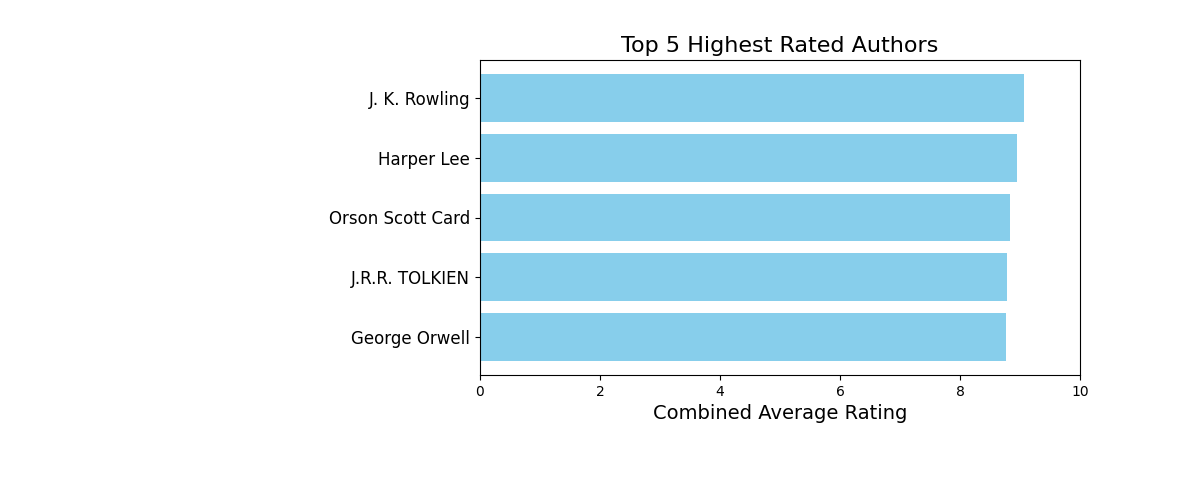
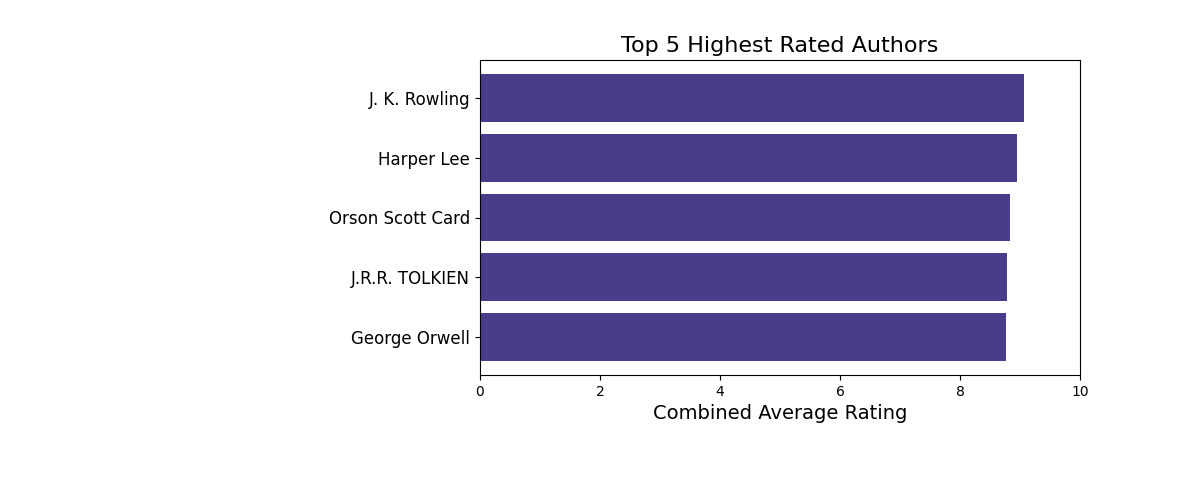
Initial

Changed region(s): [[0.4008, 0.15, 0.8633, 0.72]]

diff --git a/templates/index.html b/templates/index.html
@@ -85,8 +85,8 @@
     {% endif %}
 </div>
 <div style="margin-bottom: 100px;">
-    <img src="{{ top_ten_chart }}?v={{ timestamp }}" alt="Top Ten Chart" style="width: 75%; align-content: center">
-    <img src="{{ top_five_chart }}?v={{ timestamp }}" alt="Top Five Chart" style="width: 75%; align-content: center">
+    <img src="{{ top_ten_chart }}?v={{ timestamp }}" alt="Top Ten Chart" style="width: 90%; align-content: center">
+    <img src="{{ top_five_chart }}?v={{ timestamp }}" alt="Top Five Chart" style="width: 90%; align-content: center">
 </div>
 </body>
 </html>

diff --git a/app.py b/app.py
@@ -100,7 +100,7 @@ def plot_top_ten_books(books_with_ratings):
 
     plt.figure(figsize=(12, 5))
     plt.subplots_adjust(left=0.4, bottom=0.25)
-    plt.barh(top_ten_books['Book-Title'], top_ten_books['average_rating'], color='skyblue')
+    plt.barh(top_ten_books['Book-Title'], top_ten_books['average_rating'], color='darkslateblue')
     plt.xlabel('Average Rating', fontsize=14)
     plt.yticks(fontsize=12)  # Enable wrapping of labels to show the full title
     plt.title('Top 10 Highest Rated Books', fontsize=16)
@@ -120,7 +120,7 @@ def plot_top_five_authors(books_with_ratings):
 
     plt.figure(figsize=(12, 5))
     plt.subplots_adjust(left=0.4, bottom=0.25)
-    plt.barh(top_five_authors['Book-Author'], top_five_authors['avg_rating'], color='skyblue')
+    plt.barh(top_five_authors['Book-Author'], top_five_authors['avg_rating'], color='darkslateblue')
     plt.xlabel('Combined Average Rating', fontsize=14)
     plt.yticks(fontsize=12)
     plt.title('Top 5 Highest Rated Authors', fontsize=16)
